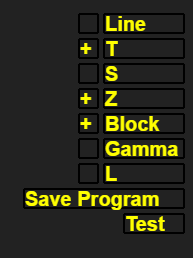
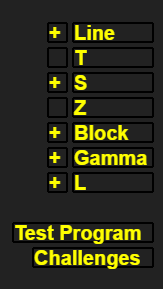
Updated the tutorial.

Changed region(s): [[0.0613, 0.031, 0.9816, 0.9612]]

diff --git a/Tutorial.html b/Tutorial.html
@@ -1,15 +1,36 @@
 <html>
 <head>
-	<title>TPM Tutorial</title>   
+	<title>Tutorial</title>   
 	<link rel="shortcut icon" type="image/x-icon" href="images/1.png" />
+	<style>
+	body {
+   width:700px;
+   margin:0 auto;
+}
+</style>	
 </head>
 
 <body>
+<h1>
+Tile Machine Tutorial
+</h1>
+
 To launch the game, open TPM.html in Google Chrome. It might work in other browsers, but I didn't test it. 
+
+<h2>
+Game rules
+</h2>
+In Tile Machine you teach the computer to play the Game of Falling Tetrominoes. 
+
+<br><br>
+<img src = "images/tutorial/8.png">
+<br><br>
+
+The essence of this simple tile game is that a random tetromino (a figure that consists of four square tiles) appears at the top of a rectangular stack, and the computer chooses the position and the rotation of that tetromino. After that, the tetromino falls down and lands on top of other tetrominoes that appeared earlier. If, as a result of that, one of the rows becomes full, that row is cleared. 
 
 <br><br>
 
-In Tile Machine you teach the computer to play a simple tile game. The essence of the simple tile game is that a random tetromino appears at the top of a rectangular stack, and the computer chooses the position and the rotation of that tetromino. After that, the tetromino falls down and lands on top of other tetrominoes that appeared earlier. If, as a result of that, one of the rows becomes full, that row is cleared. The player's task is to teach the computer to choose the rotation and the position wisely by providing patterns of blocks that can appear on the playing field and specifying, what the rotation and the position of the tetromino should be, if that pattern occurs. 
+Your task is to teach the computer to choose the rotation and the position wisely by providing patterns that can appear on the playing field. Together with each pattern you say where to put the tetromino, if that pattern occurs. 
 
 <br><br>
 <img src = "images/tutorial/1.png">
@@ -17,6 +38,11 @@ In Tile Machine you teach the computer to play a simple tile game. The essence o
 
 Gray tiles in this image are the pattern. Green tiles show the proper place for the tetromino. 
 <br><br>
+
+<h2>
+Program execution
+</h2>
+
 When the program is run, the game recognizes the pattern if it occurs in some region of the field
 <br><br>
 <img src = "images/tutorial/2.png">
@@ -38,26 +64,26 @@ Each tetromino has its own set of patterns. To switch between tetrominoes, use t
 <img src = "images/tutorial/5.png">
 <br><br>
 
-When the program is run, TPM simulates the simple tile game, which involves generating random tetrominoes sequentially. To handle each tetromino it looks at the set of patterns corresponding to that tetromino. It starts from the top and tries to find an occurence of a pattern in the field. If there are no occurences, it proceeds to the next pattern. If there are, it stops going through the list of patterns and uses the current pattern. It doesn't look at the patterns below it. 
+When the program is run, Tile Machine simulates the Game of Falling Tetrominoes, which involves generating random tetrominoes sequentially. To handle each tetromino it looks at the set of patterns corresponding to that tetromino. It starts from the top and tries to find an occurence of a pattern in the field. If there are no occurences, it proceeds to the next pattern. If there are, it stops going through the list of patterns and uses the current pattern. It doesn't look at the patterns below it. 
 
 <br><br>
 There are some subtleties about how a pattern is handled. First, it can match several regions of the field. In that case the game picks the lowest region. If there are several places at the same height, it picks one randomly. Second, it is possible that a region matches the pattern, but if the tetromino is dropped according to that pattern, it won't land in the place where it is expected to land. Such regions are dropped from consideration. 
 
 <br><br>
 
-Some comments about the UI:
+<h2>
+Interface
+</h2>
 
-<br><br>
+<h3>
+Programming screen
+</h3>
 
-Programming screen:
+1. The "Download Program" button creates a program.txt file and sends it to your Downloads folder. You can open it later by using the "Choose File" button at the bottom of the page. 
 <br><br>
-1. The "Save Program" button creates a program.txt file and sends it to your Downloads folder. You can open it later by using the "Choose File" button at the bottom of the page. 
+2. If there are too many patterns, they will go out of canvas. You can scroll the list with the wheel of your mouse. 
 <br><br>
-2. I would recommend to save your program frequently. The prototype is pretty buggy and can crash at any moment. 
-<br><br>
-3. If there are too many patterns, they will go out of canvas. You can scroll the list with the wheel of your mouse. 
-<br><br>
-4. The empty button next to the arrow buttons and below the Delete button in the list of patterns can be toggled.
+3. The empty button next to the arrow buttons and below the Delete button in the list of patterns can be toggled.
 <br><br>
 <img src = "images/tutorial/6.png">
 <br><br>
@@ -66,18 +92,34 @@ Programming screen:
 <img src = "images/tutorial/3.png">
 <br><br>
 
-5. Before testing the program, turn on several tetrominoes. The tetrominoes that are off will never appear in the game. 
+4. Before testing the program, turn on several tetrominoes. The tetrominoes that are off will never appear in the game. 
 <br><br>
 <img src = "images/tutorial/7.png">
 <br><br>
 
-Testing screen:
-<br><br>
+<h3>
+Testing screen
+</h3>
+
 5. The "Get Stats" button runs the game without drawing it. It counts the minimal, the maximal and the average number of lines deleted in a game. It also saves the lamest games (the ones with the smallest number of deleted lines). The number of polyominoes dropped in such run is specified by the variable sampleSize in the very beginning of game.js. It is 50000 by default. The lamest game threshold is specified by the variable sizeOfLamestGames. It is 10 by default. That is, all games in which fewer than 10 lines were deleted, will be saved as the lamest games. The simulation can run for a while, depending on your computer. It will also freeze the tab while running.
 <br><br>
 6. To load a lamest game, press the "Lamest Games" button. To play back the game, press the "Next Tetromino" button repeatedly. There are two buttons with the name "Next Tetromino". You need the one that is next to the "Lamest Games" button. The one at the bottom generates random tetrominoes. 
 <br><br>
 7. Matched regions are highlighted by rectangles. Red rectangles are the regions that were matched but got removed because the tetromino couldn't land at the place where you expected it to land. Yellow rectangles are the ones that were removed because they aren't the lowest ones. Gray rectangles are the optimal ones. The game picks one of those randomly. The black rectangle is the one that is picked. 
+
+<h2>
+Challenges
+</h2>
+To get started, try to beat a couple of challenges. These usually involve fewer than the full set of 7 tetrominoes, and only require the program to run for some time, not forever. 
+<br><br>
+<img src = "images/tutorial/9.png">
+
+<h2>
+Program storage
+</h2>
+The program is saved automatically after each change. It is stored locally in the browser and will persist when the tab is closed or refreshed. If you would like to start over with an empty program, you can reset the program. The copy that is stored in the browser's memory will be deleted. If you would like to keep that program, you can download it as a text file. Use the buttons in the lower right corner of the programming screen. 
+<br><br>
+<img src = "images/tutorial/10.png">
 
 </body>
 </html>
